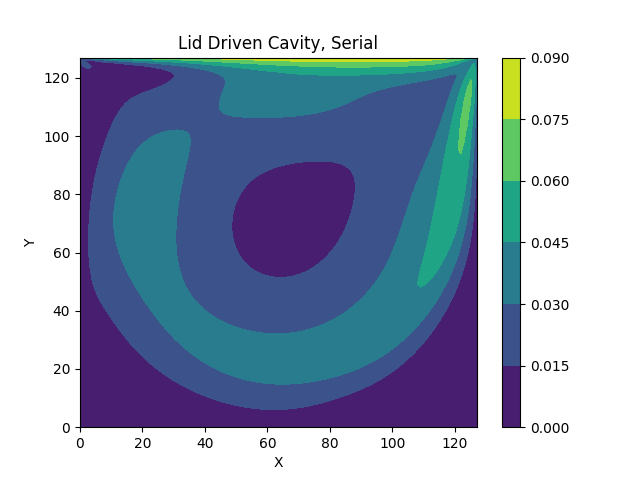
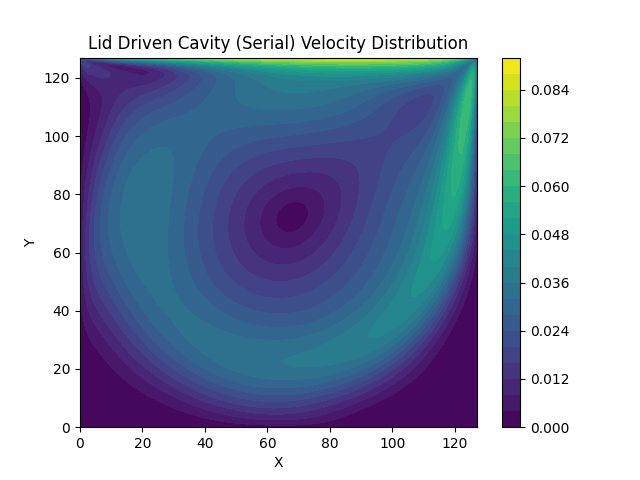
Improve visualization

diff --git a/display.py b/display.py
@@ -23,8 +23,8 @@ Z = Z.T
 
 # plots filled contour plot
 fig, ax = plt.subplots(1, 1)
-color_bar = ax.contourf(X, Y, Z)
-ax.set_title('Lid Driven Cavity, Serial')
+color_bar = ax.contourf(X, Y, Z, levels=24)
+ax.set_title('Lid Driven Cavity (Serial) Velocity Distribution')
 ax.set_xlabel('X')
 ax.set_ylabel('Y')
 plt.colorbar(color_bar)
